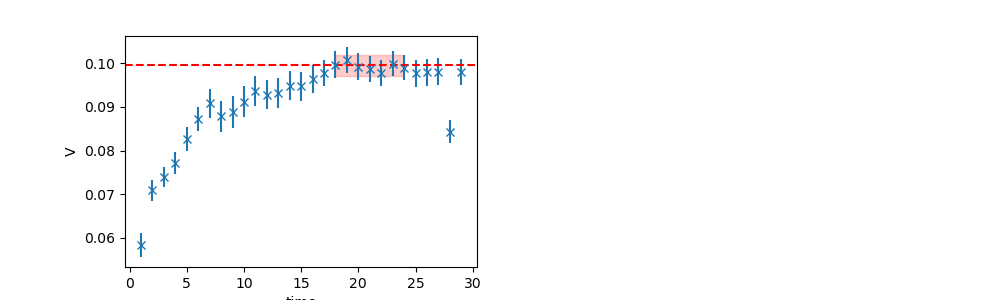
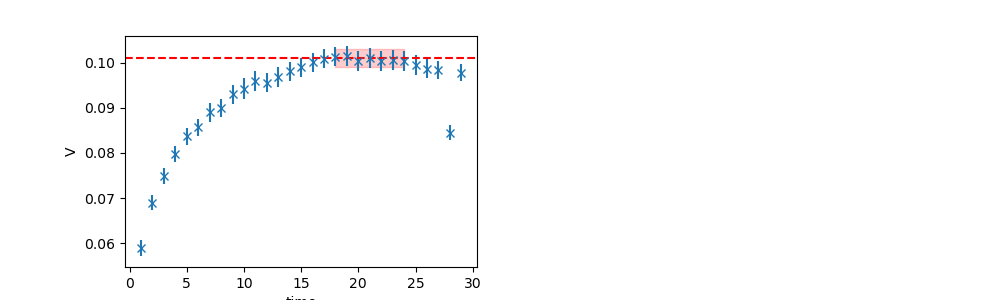
Ran all momenta, nsq=4 bug

diff --git a/V-Av-improved.py b/V-Av-improved.py
@@ -106,7 +106,7 @@ def sum_with_exceptions_jack(lst,nsq,j,i):
 
 
 #########decide here which nsq
-nsq=1
+nsq=5
 ##########
 
 
